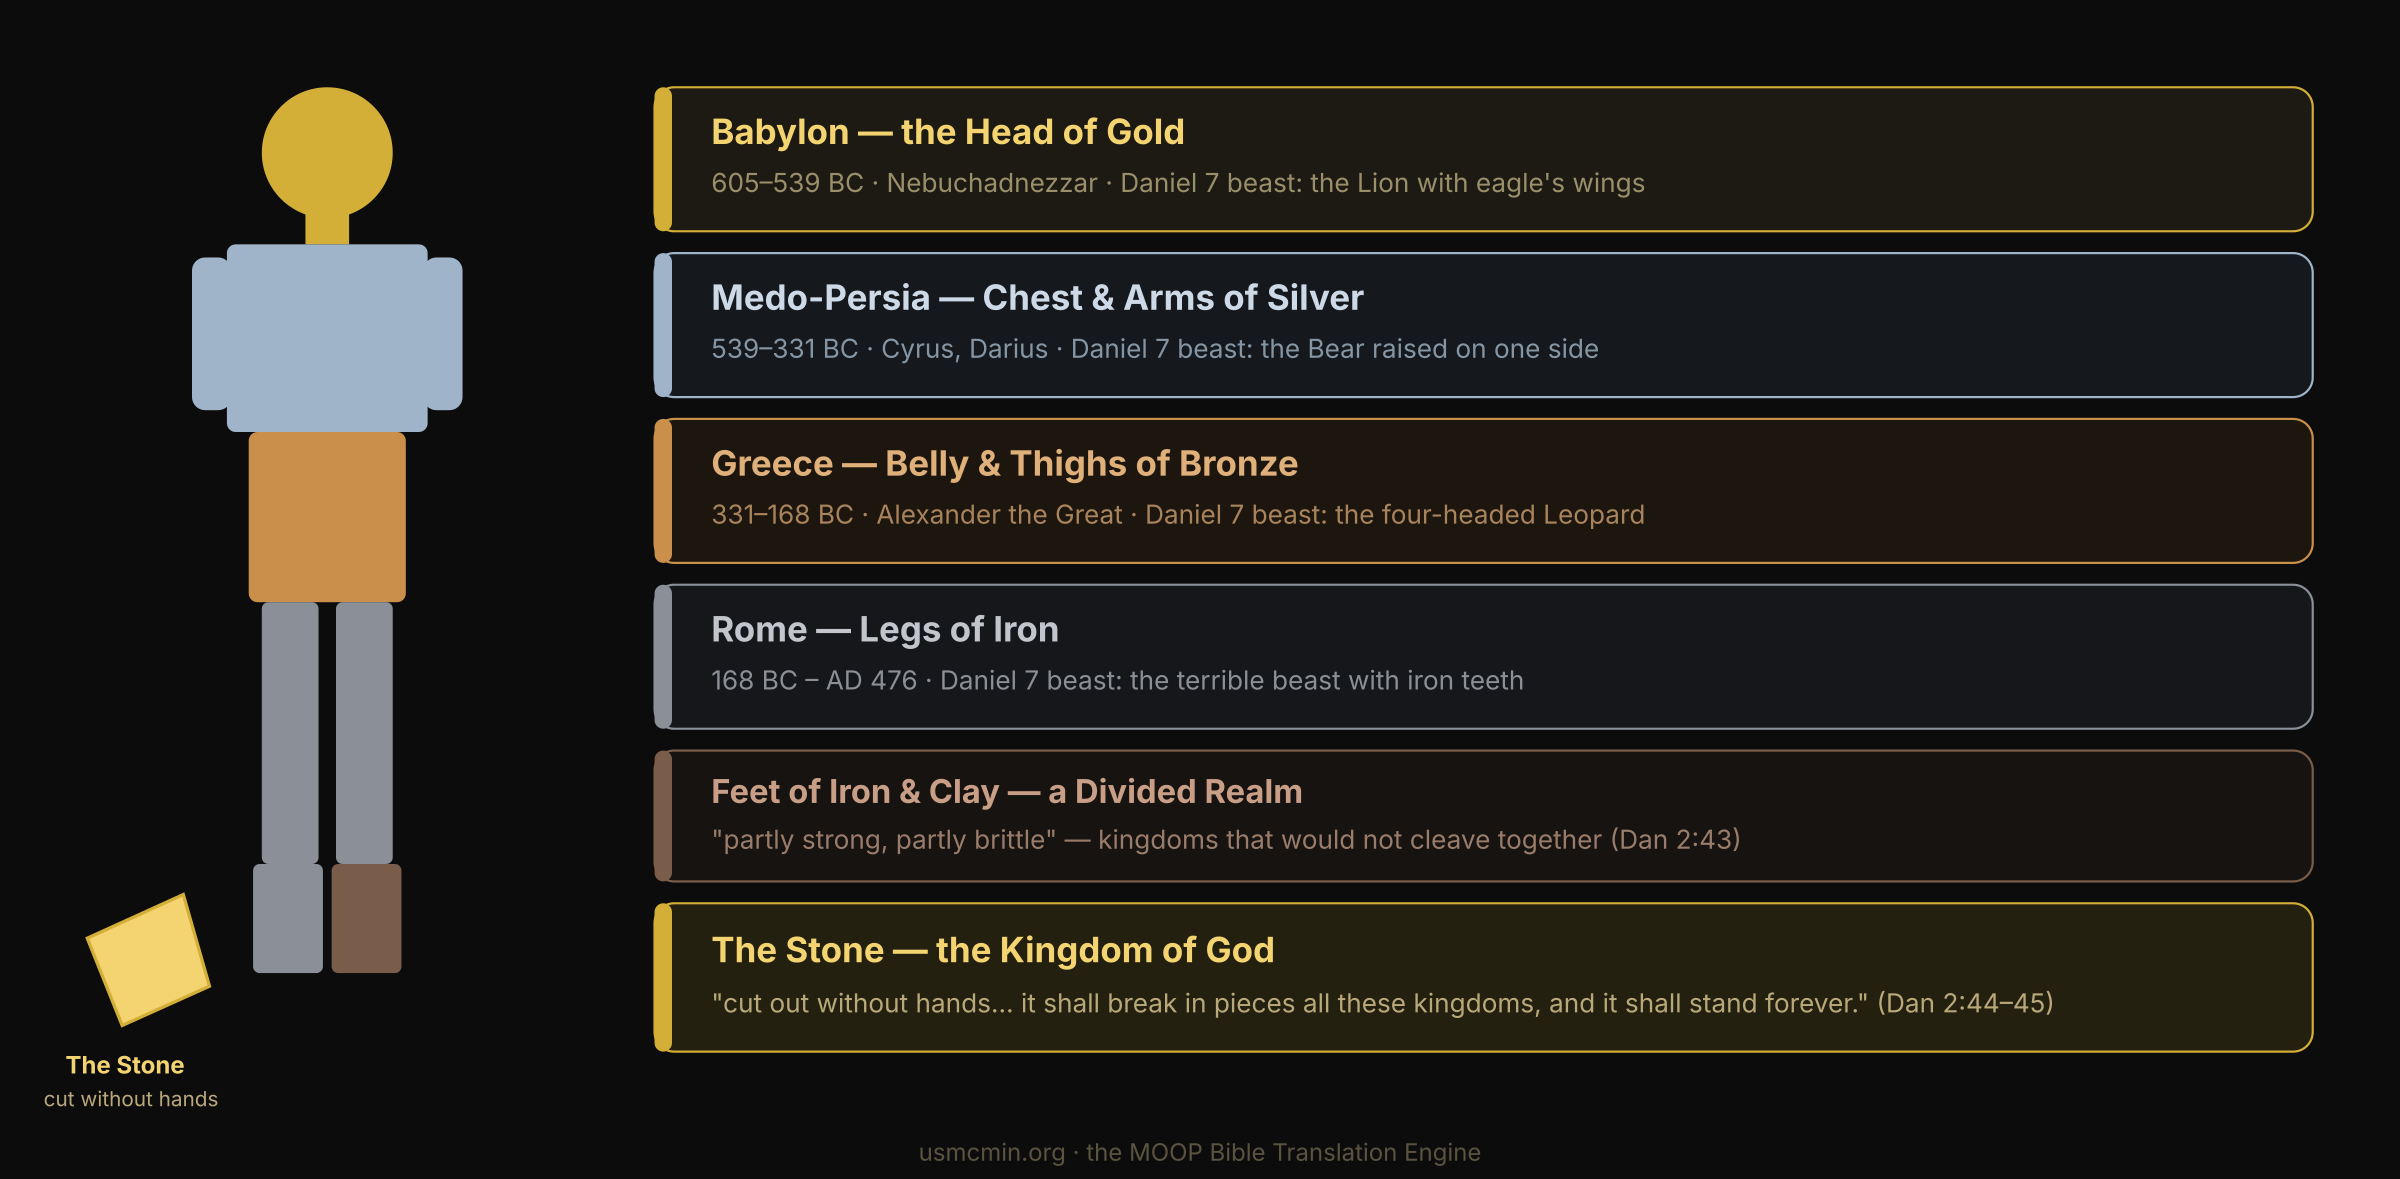
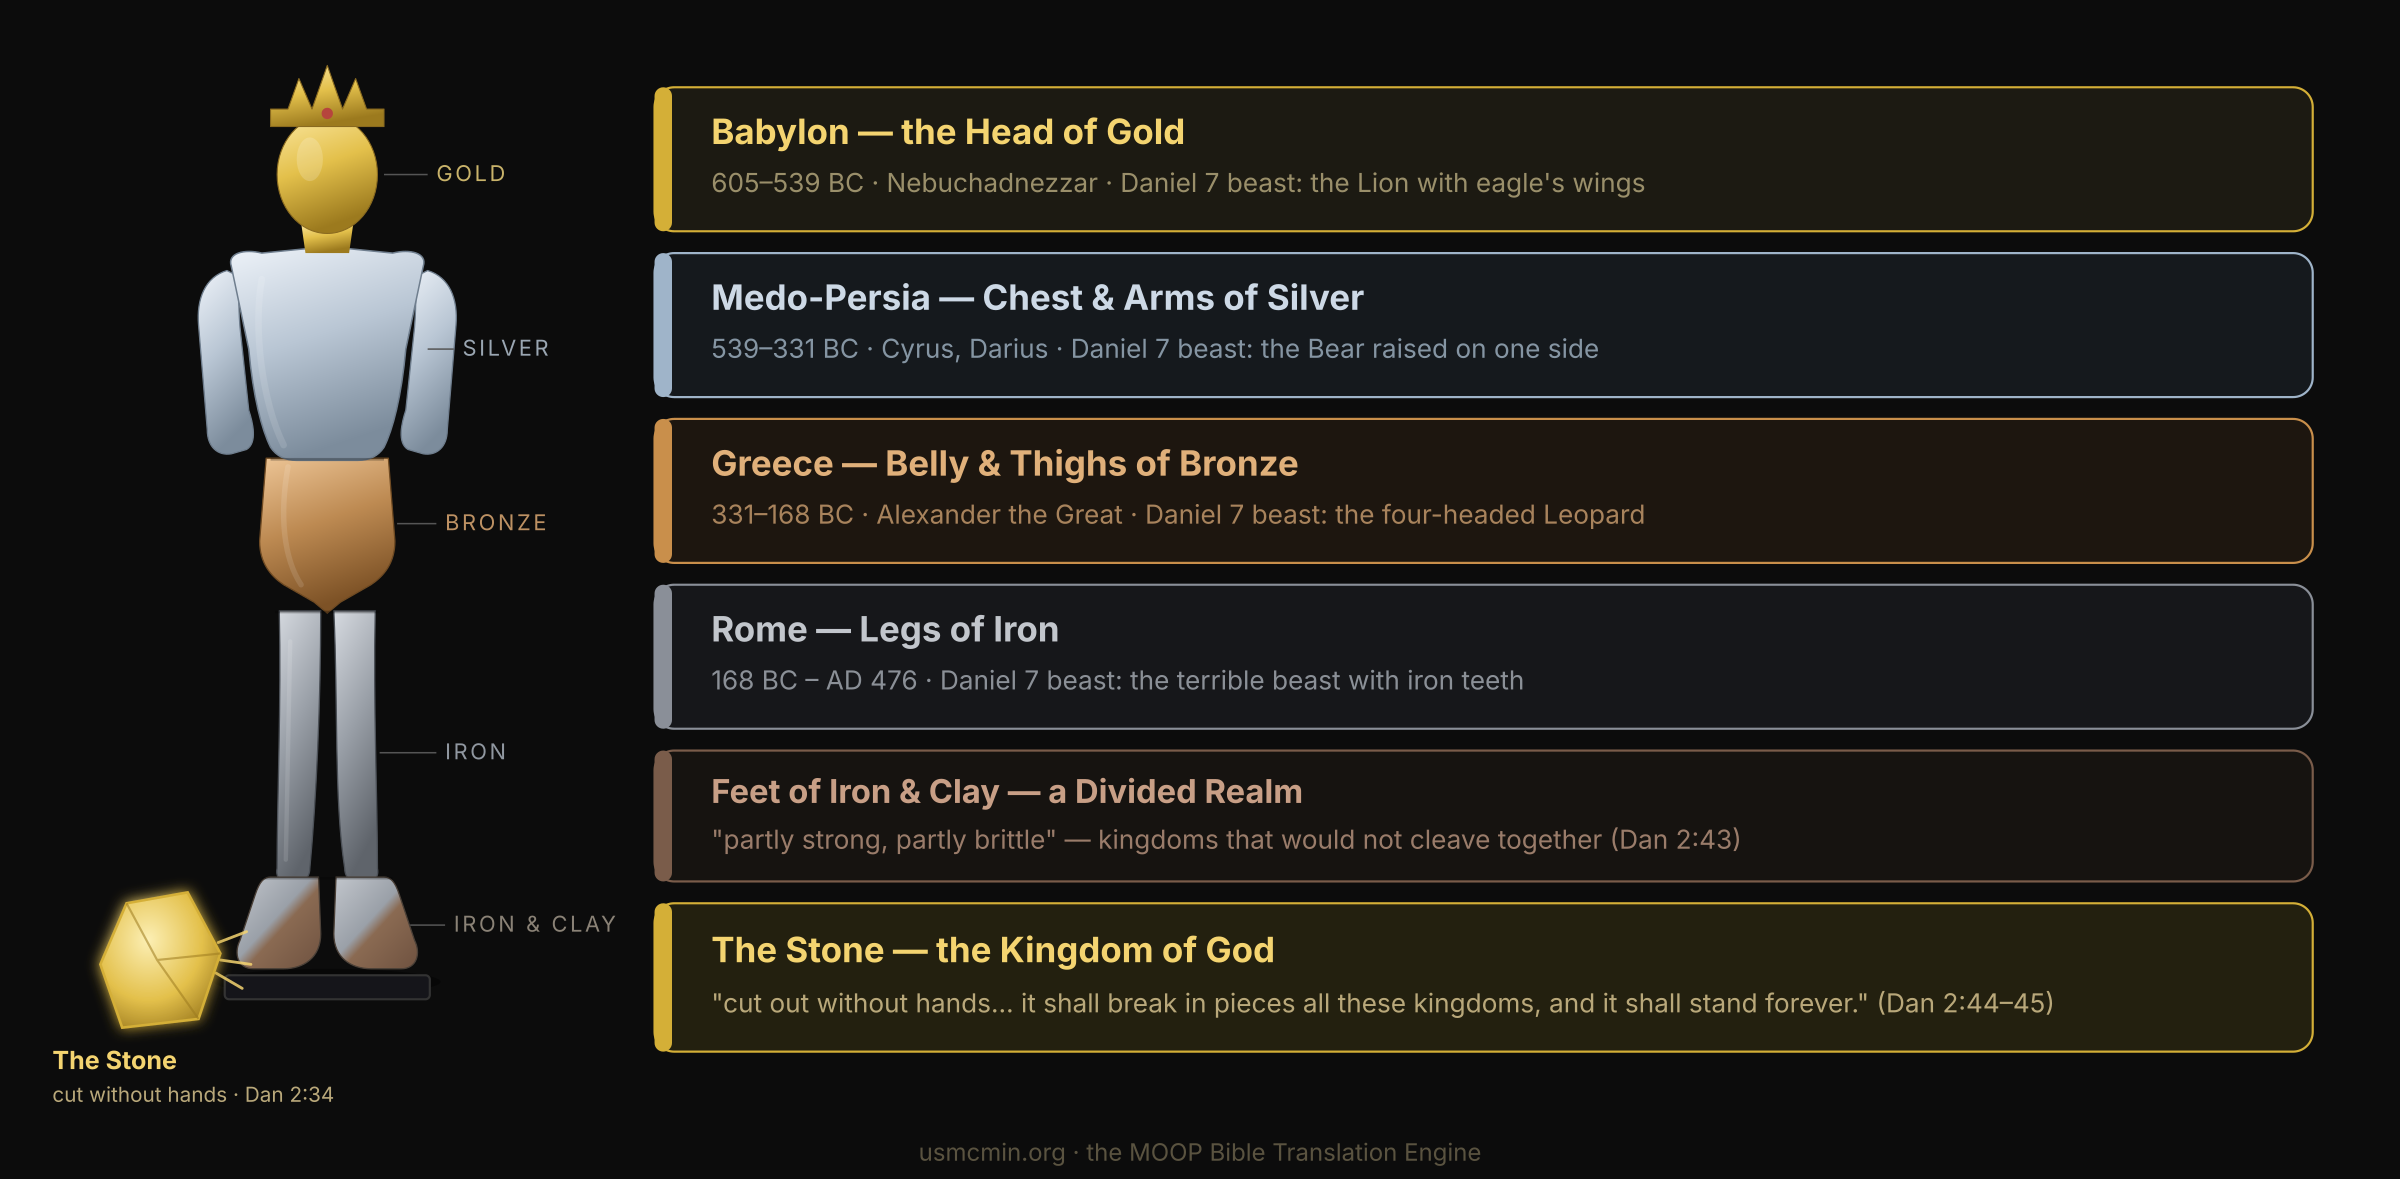
Atlas: redraw the four-metals statue as a refined figure
Replace the stacked-box statue in Daniel's Four Kingdoms with a proper
crowned colossus: gold head + crown, silver chest/arms, bronze belly &
thighs, iron legs, iron-and-clay feet, on a pedestal, with the glowing
Stone (cut without hands) striking the feet. Metallic linear/radial
gradients, sheen highlights, band separators, and subtle GOLD/SILVER/
BRONZE/IRON/IRON&CLAY labels. Still one click target to Daniel 2 (Stone
to Dan 2:44-45); empire cards unchanged. Poster regenerated.

Changed region(s): [[0.0, 0.0611, 0.25, 0.9466]]

diff --git a/docs/atlas.html b/docs/atlas.html
@@ -193,32 +193,66 @@
     <p class="lead">In Nebuchadnezzar's dream (Daniel 2) a great image of four metals charts the empires that would rule until "the God of heaven sets up a kingdom that shall never be destroyed." Daniel's own vision of four beasts (Daniel 7) runs in parallel. History bore it out: Babylon, Medo-Persia, Greece, and Rome.</p>
     <div class="svg-wrap">
     <svg viewBox="0 0 1100 540" role="img" aria-label="Daniel's prophecy of four kingdoms — the image of four metals">
-      <!-- The image (statue) on the left -->
-      <g>
-        <!-- head of gold -->
-        <a href="bible.html?ref=Daniel%202">
-        <circle class="hot" cx="150" cy="70" r="30" fill="var(--babylon)"/>
-        <rect x="140" y="96" width="20" height="16" fill="var(--babylon)"/>
-        <!-- chest & arms silver -->
-        <rect class="hot" x="104" y="112" width="92" height="86" rx="4" fill="var(--persia)"/>
-        <rect x="88" y="118" width="18" height="70" rx="6" fill="var(--persia)"/>
-        <rect x="194" y="118" width="18" height="70" rx="6" fill="var(--persia)"/>
-        <!-- belly & thighs bronze -->
-        <rect class="hot" x="114" y="198" width="72" height="78" rx="4" fill="var(--greece)"/>
-        <!-- legs of iron -->
-        <rect class="hot" x="120" y="276" width="26" height="120" rx="3" fill="var(--rome)"/>
-        <rect class="hot" x="154" y="276" width="26" height="120" rx="3" fill="var(--rome)"/>
-        <!-- feet iron + clay -->
-        <rect class="hot" x="116" y="396" width="32" height="50" rx="3" fill="var(--rome)"/>
-        <rect class="hot" x="152" y="396" width="32" height="50" rx="3" fill="#7a5c4a"/>
-        </a>
-        <!-- the Stone striking the feet -->
-        <a href="bible.html?ref=Daniel%202%3A44-45">
-        <polygon class="hot" points="40,430 84,410 96,452 56,470" fill="var(--gold-light)" stroke="var(--gold)" stroke-width="1.5"/>
-        <text x="30" y="492" font-family="Inter,sans-serif" font-size="11" fill="var(--gold-light)" font-weight="700">The Stone</text>
-        <text x="20" y="507" font-family="Inter,sans-serif" font-size="9.5" fill="#b9a87a">cut without hands</text>
-        </a>
+      <defs>
+        <linearGradient id="m-gold" x1="0" y1="0" x2="0.3" y2="1"><stop offset="0" stop-color="#FBE7A0"/><stop offset="0.5" stop-color="#E3C04B"/><stop offset="1" stop-color="#9C7A1E"/></linearGradient>
+        <linearGradient id="m-silver" x1="0" y1="0" x2="0.3" y2="1"><stop offset="0" stop-color="#eef3f9"/><stop offset="0.5" stop-color="#b9c6d4"/><stop offset="1" stop-color="#7c8c9c"/></linearGradient>
+        <linearGradient id="m-bronze" x1="0" y1="0" x2="0.3" y2="1"><stop offset="0" stop-color="#edc596"/><stop offset="0.5" stop-color="#bd8a52"/><stop offset="1" stop-color="#7d5226"/></linearGradient>
+        <linearGradient id="m-iron" x1="0" y1="0" x2="0.3" y2="1"><stop offset="0" stop-color="#d6dae0"/><stop offset="0.5" stop-color="#9aa0a8"/><stop offset="1" stop-color="#5f646b"/></linearGradient>
+        <linearGradient id="m-ironclay" x1="0" y1="0" x2="1" y2="1"><stop offset="0" stop-color="#c2c6cc"/><stop offset="0.45" stop-color="#9aa0a8"/><stop offset="0.55" stop-color="#8a6a52"/><stop offset="1" stop-color="#6f5240"/></linearGradient>
+        <radialGradient id="m-stone" cx="0.4" cy="0.35" r="0.75"><stop offset="0" stop-color="#FCEFB4"/><stop offset="0.6" stop-color="#E3C04B"/><stop offset="1" stop-color="#9C7A1E"/></radialGradient>
+        <filter id="stone-glow" x="-60%" y="-60%" width="220%" height="220%"><feGaussianBlur stdDeviation="3.2" result="b"/><feMerge><feMergeNode in="b"/><feMergeNode in="SourceGraphic"/></feMerge></filter>
+      </defs>
+
+      <!-- The great image of Nebuchadnezzar's dream (Daniel 2), banded in four metals -->
+      <a href="bible.html?ref=Daniel%202"><g class="hot" stroke-linejoin="round">
+        <!-- pedestal + cast shadow -->
+        <ellipse cx="150" cy="450" rx="52" ry="6" fill="#000" opacity="0.4"/>
+        <rect x="103" y="447" width="94" height="11" rx="2" fill="#15151a" stroke="#333"/>
+        <!-- legs of iron (drawn first; bronze + feet overlap their ends) -->
+        <path d="M128,280 C129,322 127,366 127,398 C126,403 130,405 134,405 C138,405 142,403 142,398 C145,366 147,322 147,280 Z" fill="url(#m-iron)" stroke="#4c5158" stroke-width="0.6"/>
+        <path d="M172,280 C171,322 173,366 173,398 C174,403 170,405 166,405 C162,405 158,403 158,398 C153,366 155,322 153,280 Z" fill="url(#m-iron)" stroke="#4c5158" stroke-width="0.6"/>
+        <!-- feet of iron &amp; clay -->
+        <path d="M124,402 L146,402 L147,428 C147,439 139,444 130,444 L116,444 C109,444 107,437 110,431 L117,410 C119,404 121,402 124,402 Z" fill="url(#m-ironclay)" stroke="#4c4138" stroke-width="0.6"/>
+        <path d="M176,402 L154,402 L153,428 C153,439 161,444 170,444 L184,444 C191,444 193,437 190,431 L183,410 C181,404 179,402 176,402 Z" fill="url(#m-ironclay)" stroke="#4c4138" stroke-width="0.6"/>
+        <!-- belly &amp; thighs of bronze -->
+        <path d="M122,210 L178,210 L181,248 C181,258 176,264 170,268 L156,276 L150,281 L144,276 L130,268 C124,264 119,258 119,248 Z" fill="url(#m-bronze)" stroke="#6f4a22" stroke-width="0.6"/>
+        <!-- arms (silver), then the chest over them -->
+        <path d="M104,124 C94,127 90,137 91,149 L95,197 C95,205 100,209 106,208 L113,206 C118,203 116,194 114,188 L110,150 C109,138 110,130 108,126 Z" fill="url(#m-silver)" stroke="#6f7e8e" stroke-width="0.6"/>
+        <path d="M196,124 C206,127 210,137 209,149 L205,197 C205,205 200,209 194,208 L187,206 C182,203 184,194 186,188 L190,150 C191,138 190,130 192,126 Z" fill="url(#m-silver)" stroke="#6f7e8e" stroke-width="0.6"/>
+        <path d="M106,122 C104,116 112,114 120,116 L150,113 L180,116 C188,114 196,116 194,122 L186,160 C184,182 180,197 176,205 Q172,211 164,211 L136,211 Q128,211 124,205 C120,197 116,182 114,160 Z" fill="url(#m-silver)" stroke="#6f7e8e" stroke-width="0.7"/>
+        <!-- neck, head &amp; crown of gold -->
+        <path d="M138,102 L162,102 L160,116 L140,116 Z" fill="url(#m-gold)"/>
+        <ellipse cx="150" cy="80" rx="23" ry="27" fill="url(#m-gold)" stroke="#8a6a1f" stroke-width="0.5"/>
+        <path d="M124,58 L124,50 L132,50 L137,36 L143,50 L150,30 L157,50 L163,36 L168,50 L176,50 L176,58 Z" fill="url(#m-gold)" stroke="#8a6a1f" stroke-width="0.5"/>
+        <circle cx="150" cy="52" r="2.6" fill="#b6453d"/>
+        <!-- metallic sheen + band separators -->
+        <ellipse cx="142" cy="73" rx="6" ry="10" fill="#fff" opacity="0.18"/>
+        <path d="M120,128 C116,150 120,184 130,204" fill="none" stroke="#fff" stroke-width="3" opacity="0.12" stroke-linecap="round"/>
+        <path d="M132,214 C128,236 130,256 138,268" fill="none" stroke="#fff" stroke-width="2.5" opacity="0.12" stroke-linecap="round"/>
+        <line x1="133" y1="294" x2="131" y2="394" stroke="#fff" stroke-width="2" opacity="0.12" stroke-linecap="round"/>
+        <g stroke="#000" stroke-opacity="0.28" stroke-width="1.2"><line x1="124" y1="210.5" x2="176" y2="210.5"/><line x1="126" y1="280.5" x2="174" y2="280.5"/><line x1="120" y1="402.5" x2="180" y2="402.5"/></g>
+      </g></a>
+
+      <!-- metal labels -->
+      <g font-family="Inter,sans-serif" font-size="10" letter-spacing="1.2" text-anchor="start">
+        <g stroke="#555" stroke-width="0.7"><line x1="176" y1="80" x2="196" y2="80"/><line x1="196" y1="160" x2="208" y2="160"/><line x1="182" y1="240" x2="200" y2="240"/><line x1="174" y1="345" x2="200" y2="345"/><line x1="188" y1="424" x2="204" y2="424"/></g>
+        <text x="200" y="83" fill="#c9b36a">GOLD</text>
+        <text x="212" y="163" fill="#9aa6b2">SILVER</text>
+        <text x="204" y="243" fill="#bd9163">BRONZE</text>
+        <text x="204" y="348" fill="#9097a0">IRON</text>
+        <text x="208" y="427" fill="#8a8276">IRON &amp; CLAY</text>
       </g>
+
+      <!-- the Stone cut without hands, striking the feet -->
+      <a href="bible.html?ref=Daniel%202%3A44-45">
+      <g class="hot">
+        <g stroke="var(--gold-light)" stroke-width="1.3" opacity="0.85" stroke-linecap="round"><line x1="100" y1="432" x2="113" y2="427"/><line x1="101" y1="440" x2="115" y2="442"/><line x1="99" y1="446" x2="111" y2="453"/></g>
+        <polygon points="46,442 58,414 86,409 101,437 91,467 56,471" fill="url(#m-stone)" stroke="var(--gold)" stroke-width="1.2" filter="url(#stone-glow)"/>
+        <path d="M58,414 L72,440 L101,437 M72,440 L91,467" fill="none" stroke="#9c7a1e" stroke-width="1" opacity="0.55"/>
+      </g>
+      <text x="24" y="490" font-family="Inter,sans-serif" font-size="11.5" fill="var(--gold-light)" font-weight="700">The Stone</text>
+      <text x="24" y="505" font-family="Inter,sans-serif" font-size="9.5" fill="#b9a87a">cut without hands · Dan 2:34</text>
+      </a>
 
       <!-- Empire cards on the right -->
       <g font-family="Inter,sans-serif">
